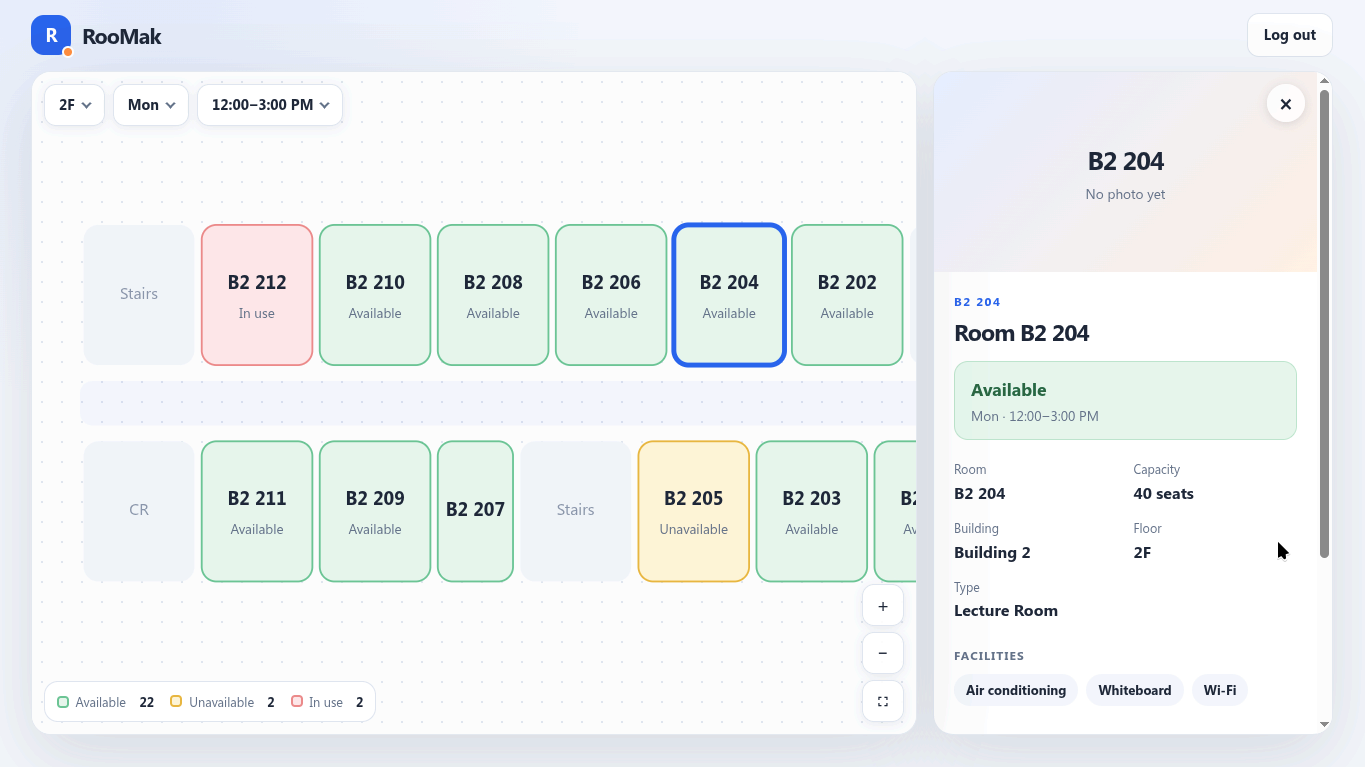
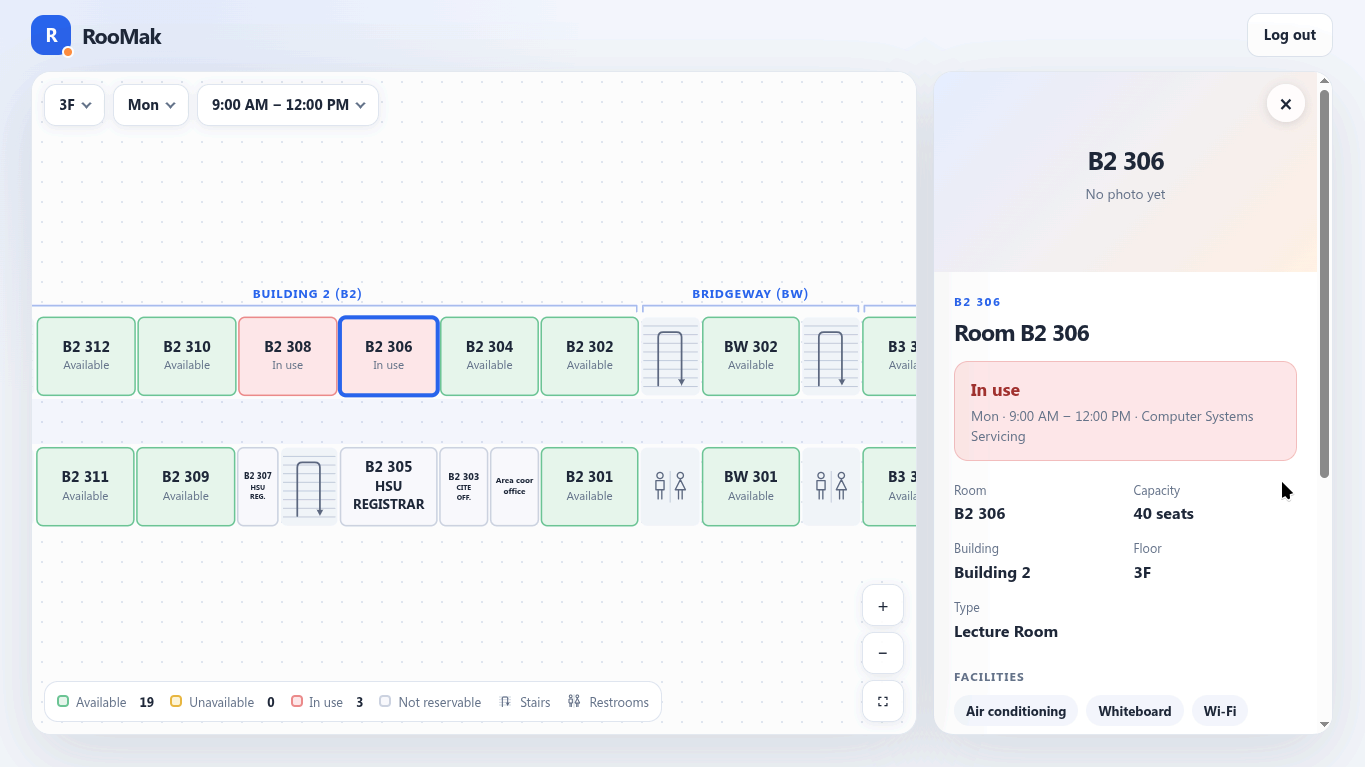
readme edits

diff --git a/data/schedules.js b/data/schedules.js
@@ -4,7 +4,7 @@ const SCHEDULES = [
   { id: 2,  roomId: "B2-212", day: "Mon", start: "13:00", end: "15:30", activity: "BSIM 201", faculty: "Prof. Cruz" },
   { id: 3,  roomId: "B2-212", day: "Mon", start: "16:00", end: "18:00", activity: "ACCT 205", faculty: "Prof. Reyes" },
   { id: 4,  roomId: "B2-212", day: "Tue", start: "09:00", end: "11:00", activity: "BSIM 101", faculty: "Prof. Cruz" },
-  { id: 5,  roomId: "B2-210", day: "Mon", start: "09:00", end: "11:30", activity: "STENO 2",  faculty: "Prof. Lim" },
+  { id: 5,  roomId: "B2-306", day: "Mon", start: "09:00", end: "12:00", activity: "Computer Systems Servicing",  faculty: "Prof. Domingo" },
   { id: 6,  roomId: "B3-204", day: "Mon", start: "13:00", end: "15:00", activity: "MATH 1",   faculty: "Prof. Tan" },
   { id: 7,  roomId: "B3-204", day: "Mon", start: "07:30", end: "09:00", activity: "ENG 1",    faculty: "Prof. Diaz" },
   { id: 8,  roomId: "B3-212", day: "Tue", start: "08:00", end: "09:30", activity: "ENG 1",    faculty: "Prof. Diaz" },
